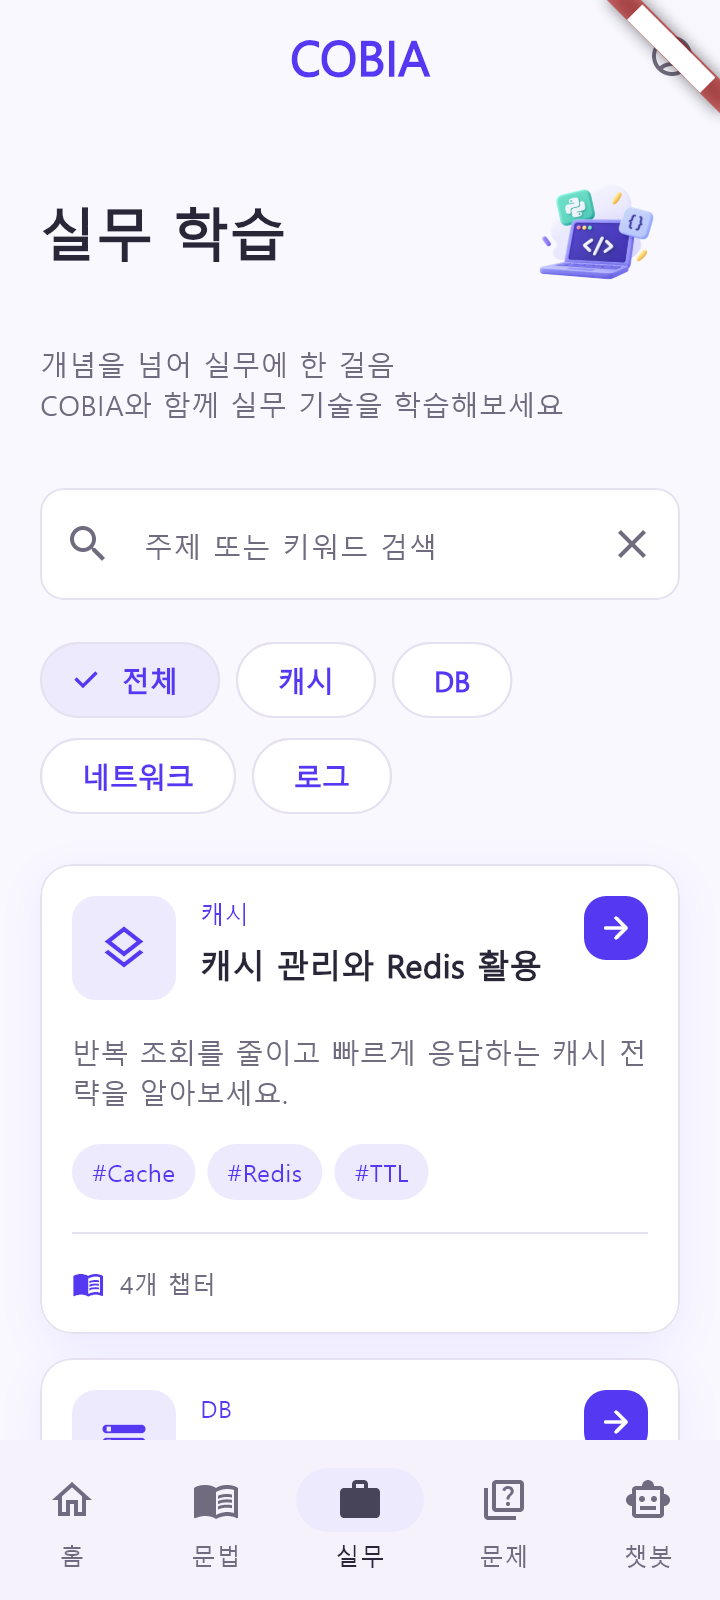
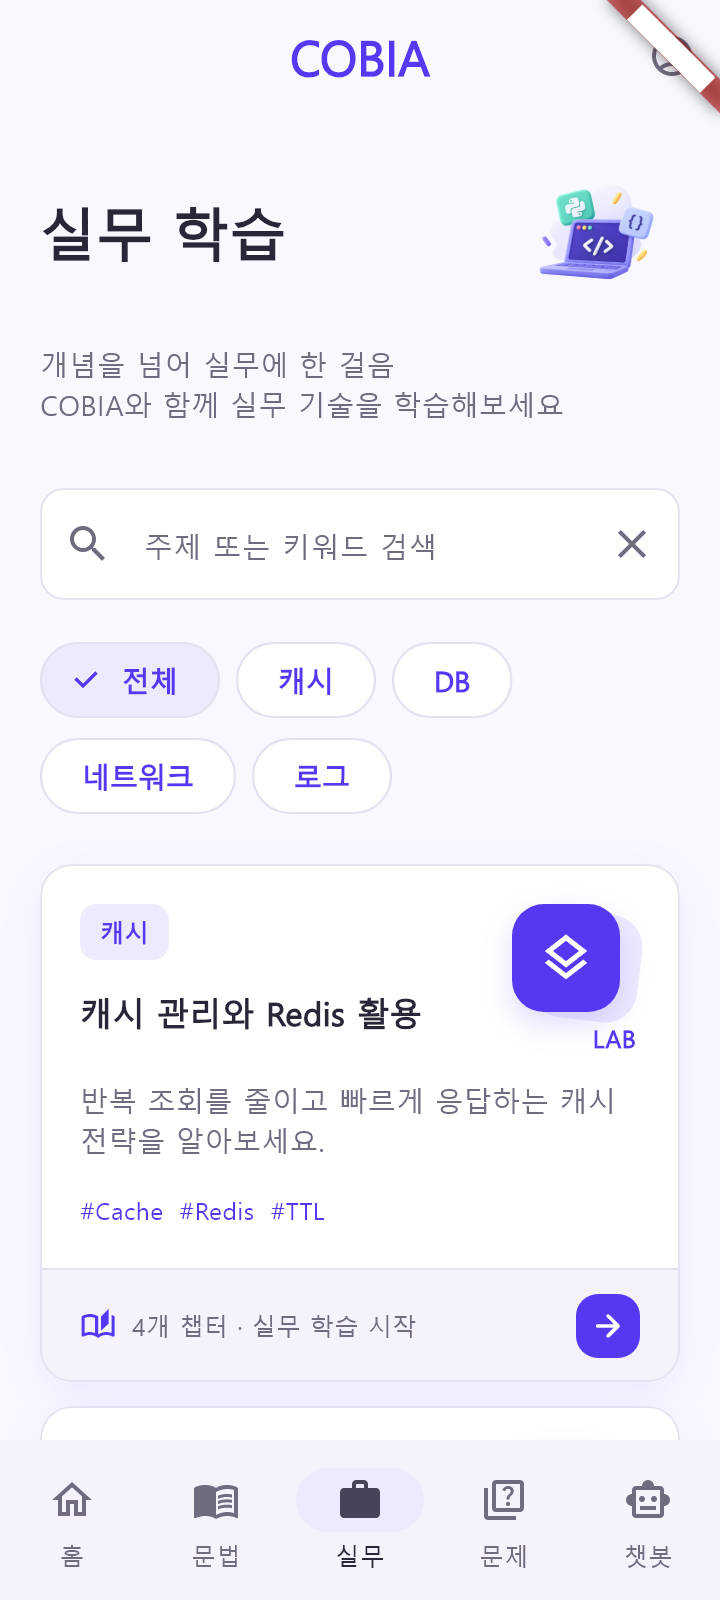
style: 실무 홈 주제 카드 디자인 개선

diff --git a/lib/features/practical/presentation/practical_topic_card.dart b/lib/features/practical/presentation/practical_topic_card.dart
@@ -2,8 +2,7 @@ import '../../../app/widgets/learning_card.dart';
 
 import 'package:flutter/material.dart';
 
-import '../../../app/app_ui_tokens.dart';
-import '../../../app/widgets/learning_ui.dart';
+import '../../../app/widgets/learning_overview_content.dart';
 import '../data/practical_sample_data.dart';
 
 class PracticalTopicCard extends StatelessWidget {
@@ -24,60 +23,14 @@ class PracticalTopicCard extends StatelessWidget {
     };
     return LearningCard(
       onTap: onTap,
-      child: Padding(
-        padding: const EdgeInsets.all(AppSpacing.card),
-        child: Column(
-          crossAxisAlignment: CrossAxisAlignment.stretch,
-          children: [
-            Row(
-              crossAxisAlignment: CrossAxisAlignment.start,
-              children: [
-                LearningIcon(icon, size: 52),
-                const SizedBox(width: 12),
-                Expanded(
-                  child: Column(
-                    crossAxisAlignment: CrossAxisAlignment.start,
-                    children: [
-                      Text(
-                        topic.category,
-                        style: AppTypography.meta.copyWith(
-                          color: AppColors.primary,
-                        ),
-                      ),
-                      const SizedBox(height: 4),
-                      Text(topic.title, style: AppTypography.card),
-                    ],
-                  ),
-                ),
-                const SizedBox(width: 8),
-                const LearningCardArrow(),
-              ],
-            ),
-            const SizedBox(height: 16),
-            Text(topic.summary, style: AppTypography.helper),
-            const SizedBox(height: 16),
-            Wrap(
-              spacing: 6,
-              runSpacing: 6,
-              children: [for (final tag in topic.tags) LearningBadge('#$tag')],
-            ),
-            const Padding(
-              padding: EdgeInsets.symmetric(vertical: 16),
-              child: Divider(height: 1, color: AppColors.border),
-            ),
-            Row(
-              children: [
-                const Icon(
-                  Icons.menu_book_outlined,
-                  size: 16,
-                  color: AppColors.primary,
-                ),
-                const SizedBox(width: 8),
-                Text('${topic.chapters.length}개 챕터', style: AppTypography.meta),
-              ],
-            ),
-          ],
-        ),
+      child: LearningOverviewContent(
+        label: topic.category,
+        title: topic.title,
+        description: topic.summary,
+        icon: icon,
+        symbol: 'LAB',
+        tags: topic.tags,
+        footer: '${topic.chapters.length}개 챕터 · 실무 학습 시작',
       ),
     );
   }
